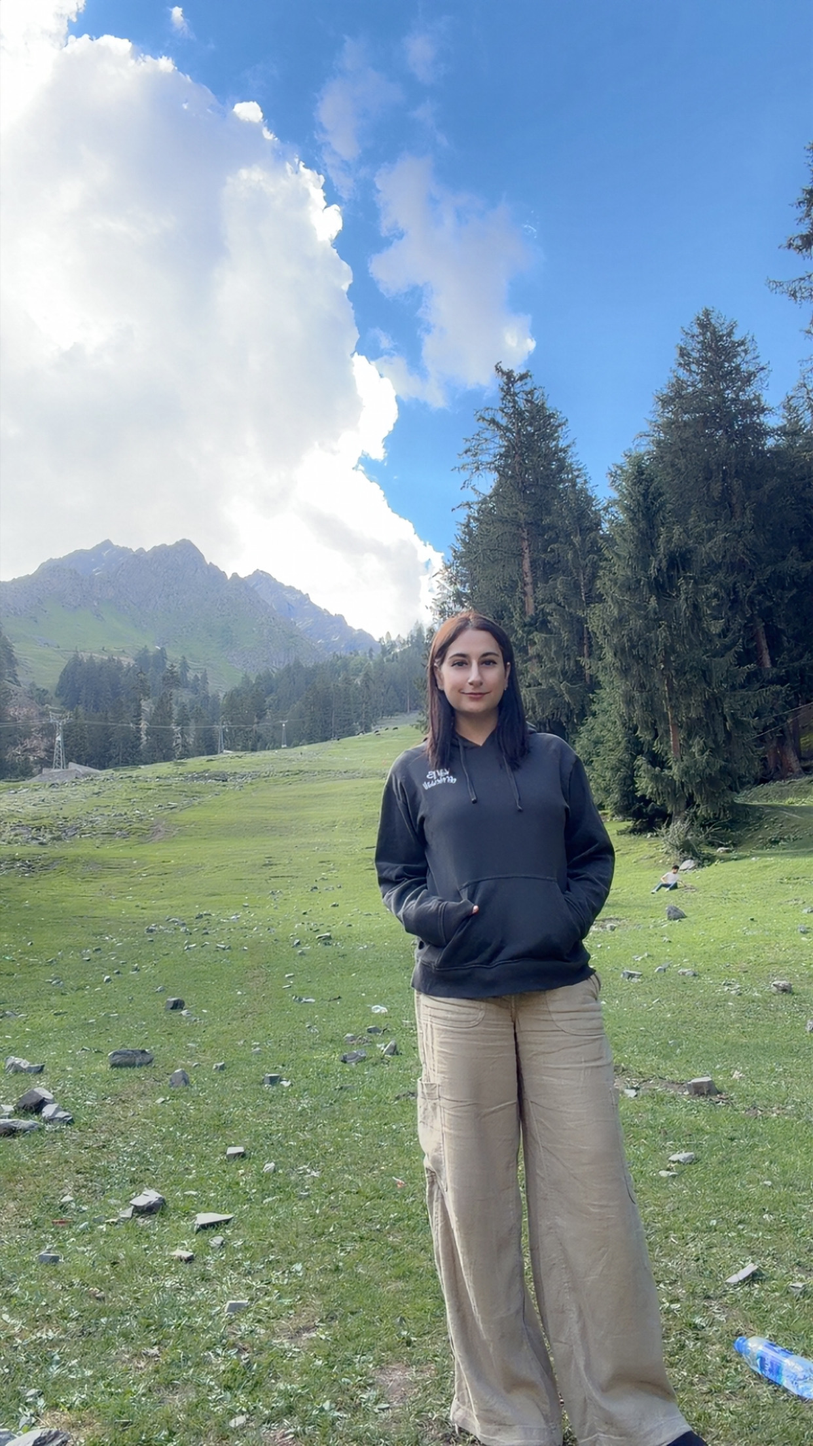
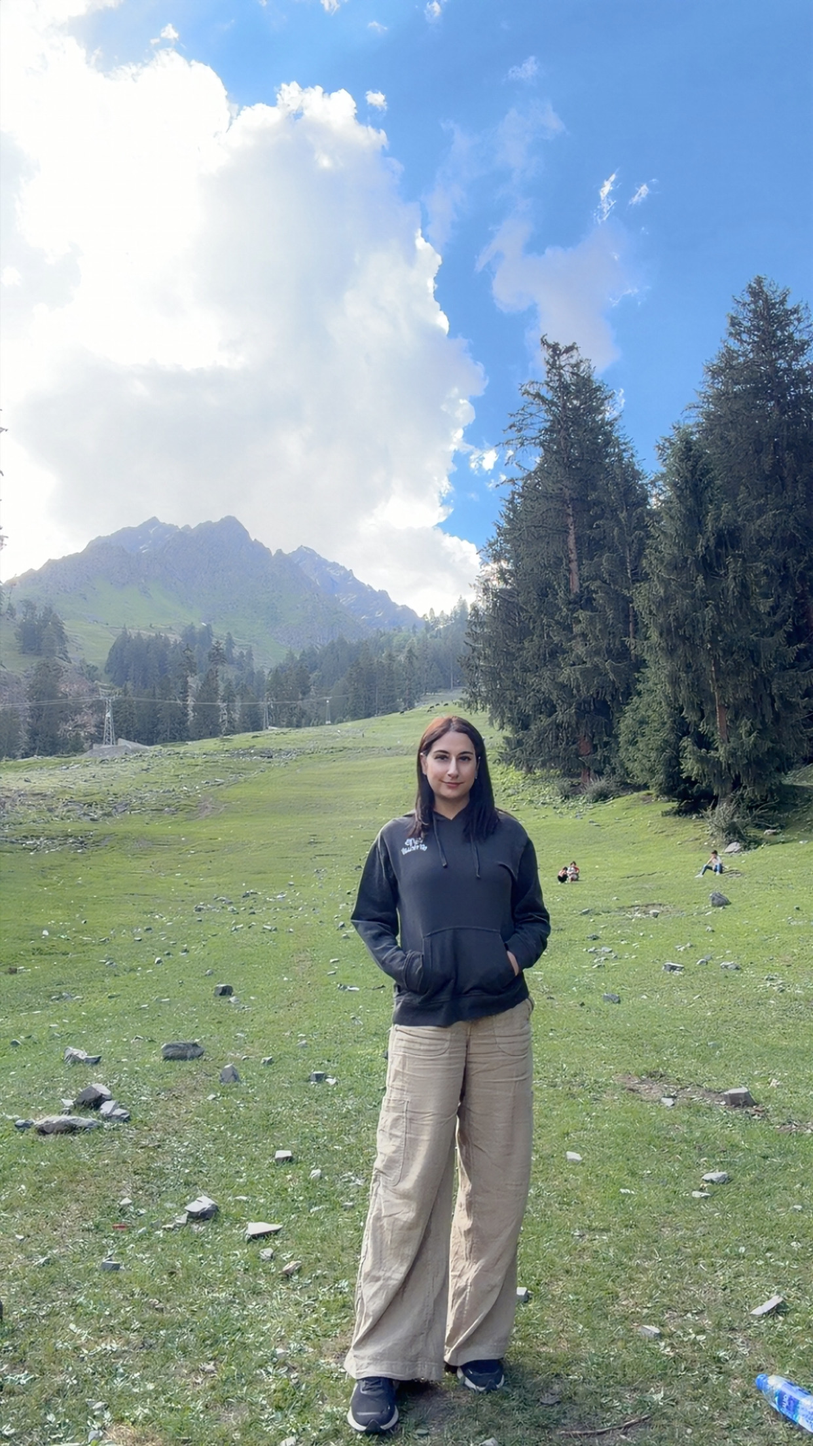
Update team section: full-colour photos, new Sidra photo and bios
- Remove grayscale-at-rest from team card photos (always full colour)
- Replace team-sidra.jpg with new photo
- Rewrite Sidra Zeb's bio
- Add languages line to Faizan Khan's bio

diff --git a/app/about/page.tsx b/app/about/page.tsx
@@ -26,7 +26,7 @@ const TEAM = [
     initials: "SZ",
     photo: "/team-sidra.jpg",
     description:
-      "Born with the North in her blood and Pashto on her tongue, Sidra has been talking people into — and through — these mountains her entire life. As co-founder, she's the first voice you'll hear: taking your call, reading your email, and building your itinerary line by line until it's exactly what you imagined and a little more. Speaks English, Urdu and Pashto.",
+      "Raised in the North, exploring it since childhood, Sidra turns first conversations into finished journeys. Whatever you're hoping for from a trip — even if you can't quite describe it yet — it's her job to hear it, and her craft to build it. If it's on your itinerary, she's thought it through. Speaks English, Urdu and Pashto.",
   },
   {
     name: "Faizan Khan",
@@ -35,7 +35,7 @@ const TEAM = [
     initials: "FK",
     photo: "/team-faizan.jpg",
     description:
-      "Creative and curious, Faizan translates Pakistan's beauty into narratives that resonate. He ensures the world sees what northern Pakistan truly is — not what it's assumed to be.",
+      "Creative and curious, Faizan translates Pakistan's beauty into narratives that resonate. He ensures the world sees what northern Pakistan truly is — not what it's assumed to be. Speaks English, Urdu, Burushaski and Shina.",
   },
   {
     name: "Christina Hardy",
@@ -232,7 +232,7 @@ export default function AboutPage() {
                       src={member.photo}
                       alt={member.name}
                       fill
-                      className="object-cover object-top grayscale group-hover:grayscale-0 transition-all duration-700 scale-105 group-hover:scale-100"
+                      className="object-cover object-top transition-all duration-700 scale-105 group-hover:scale-100"
                       sizes="(max-width: 640px) 100vw, (max-width: 1024px) 50vw, 33vw"
                     />
                     <div className="absolute inset-0 bg-gradient-to-t from-[#0E0E0E] via-[#0E0E0E]/20 to-transparent" />
